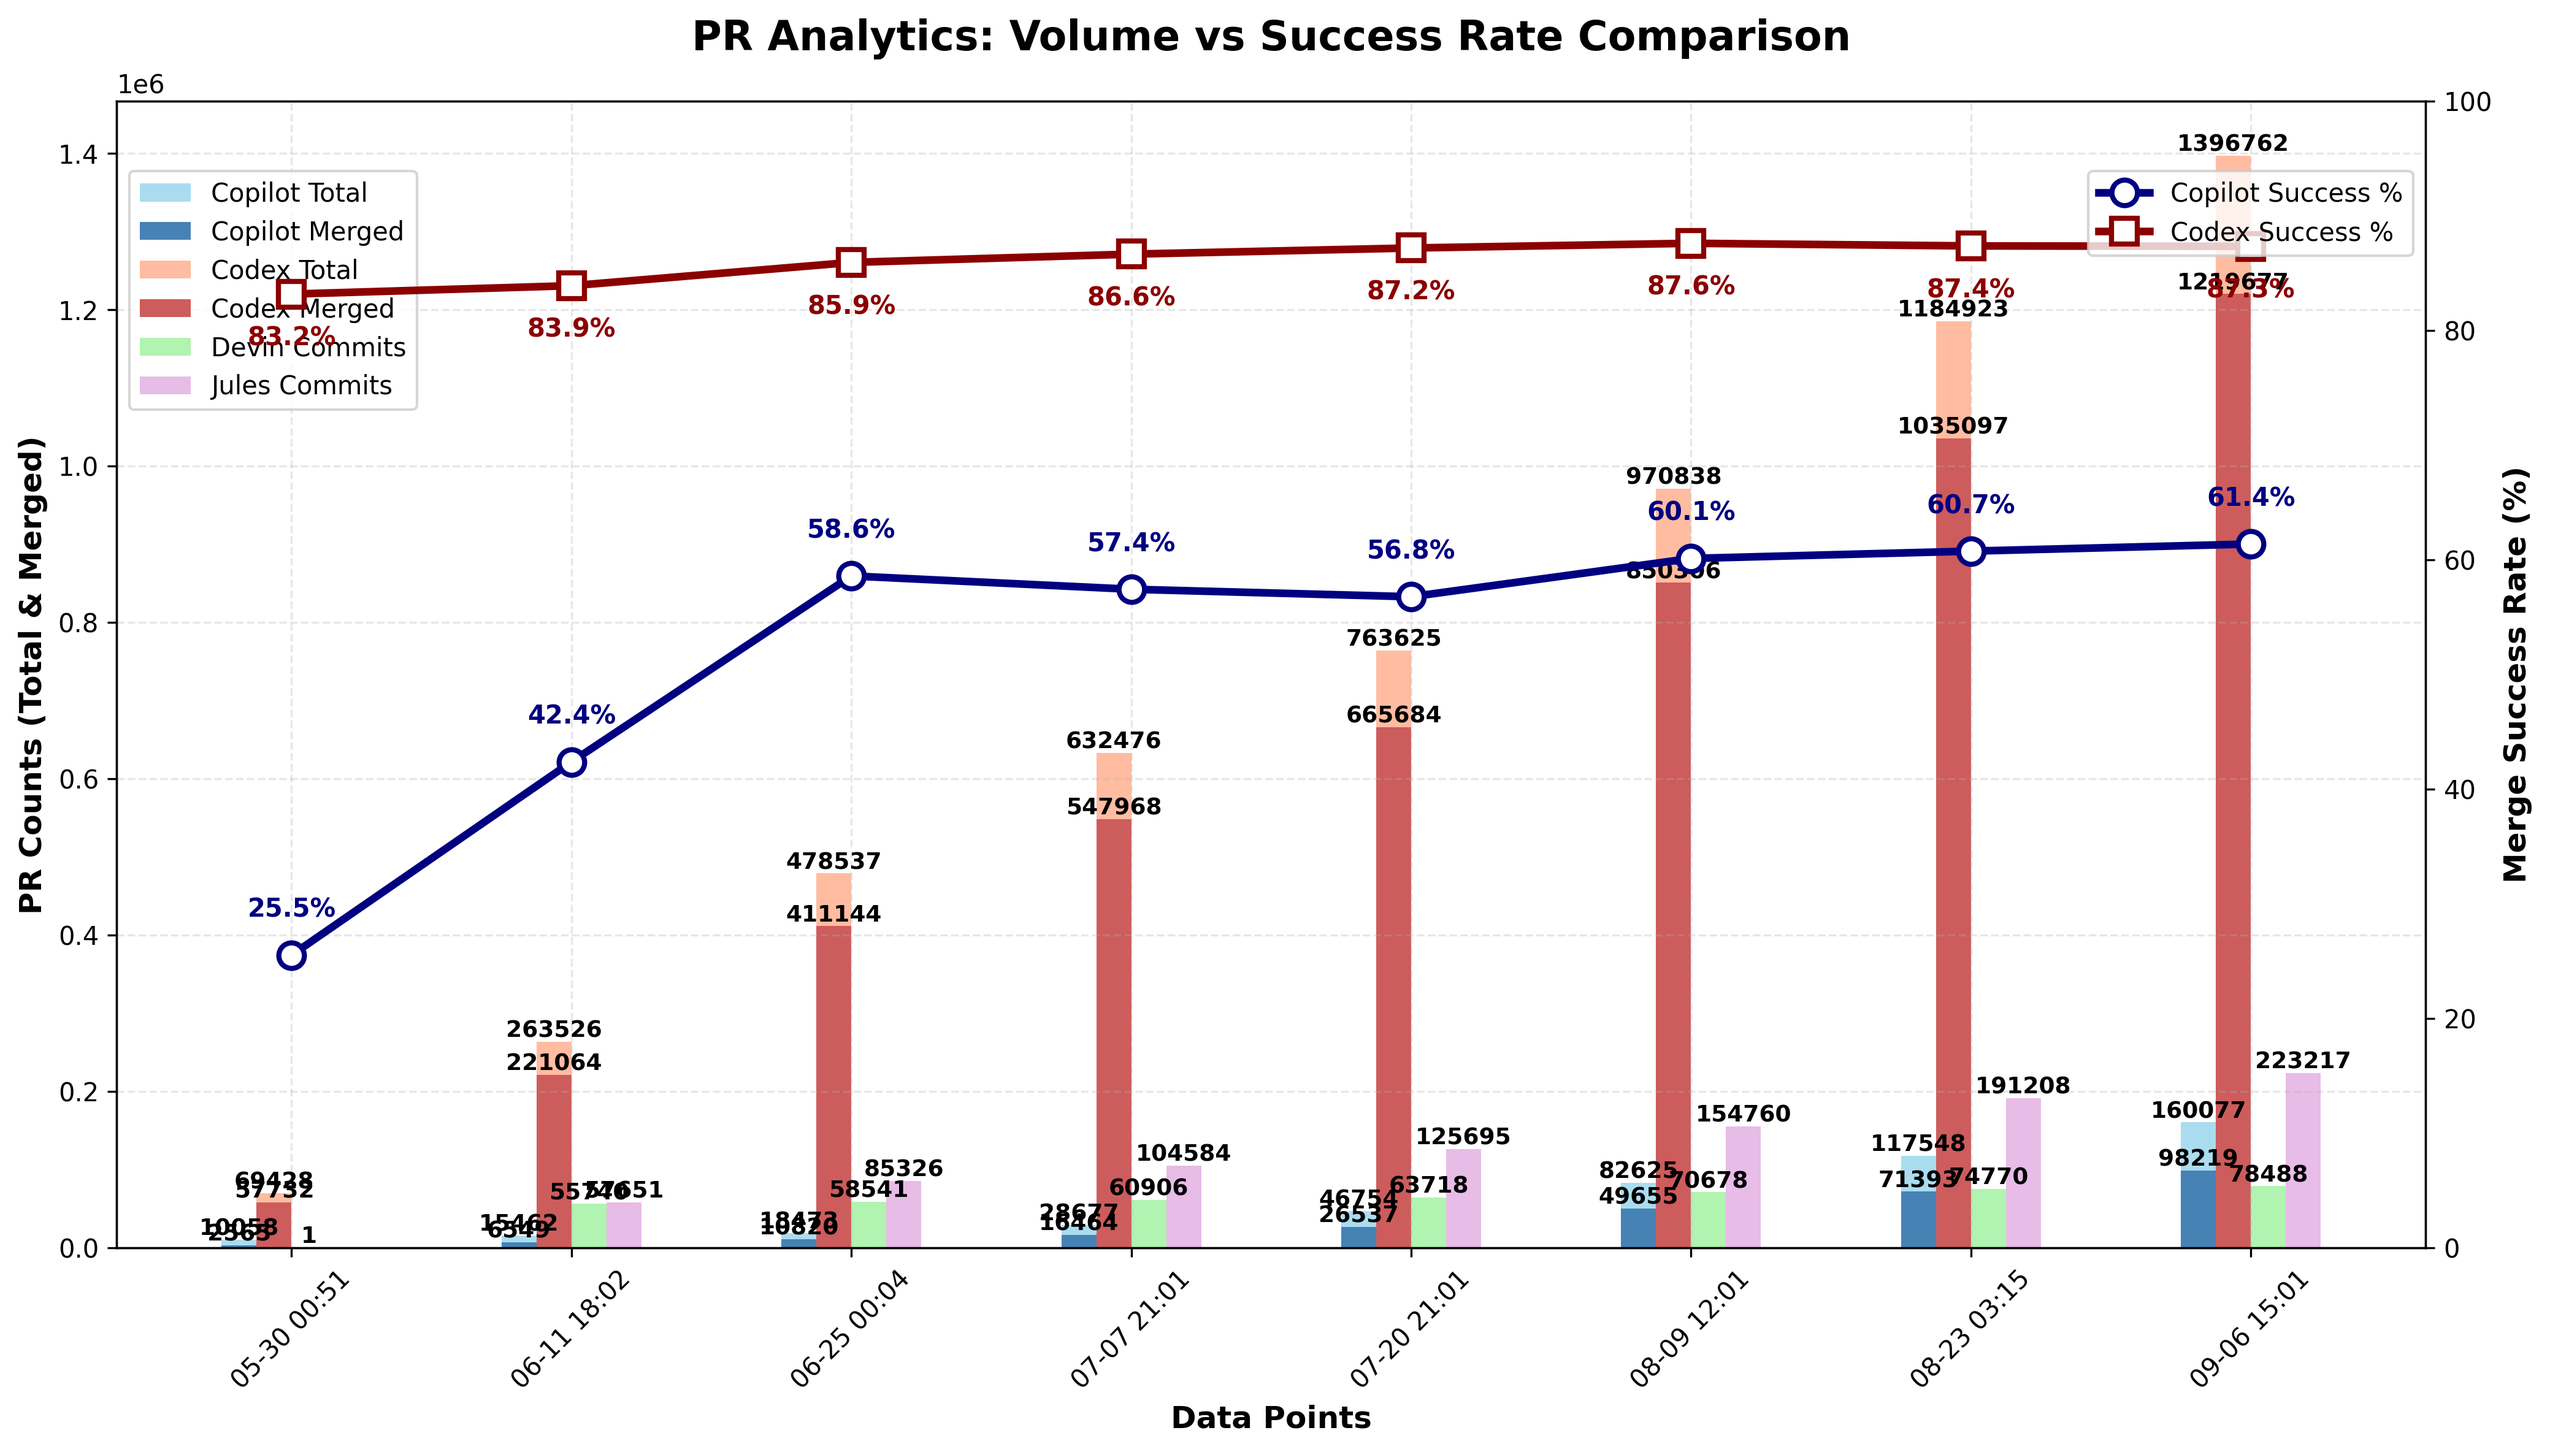
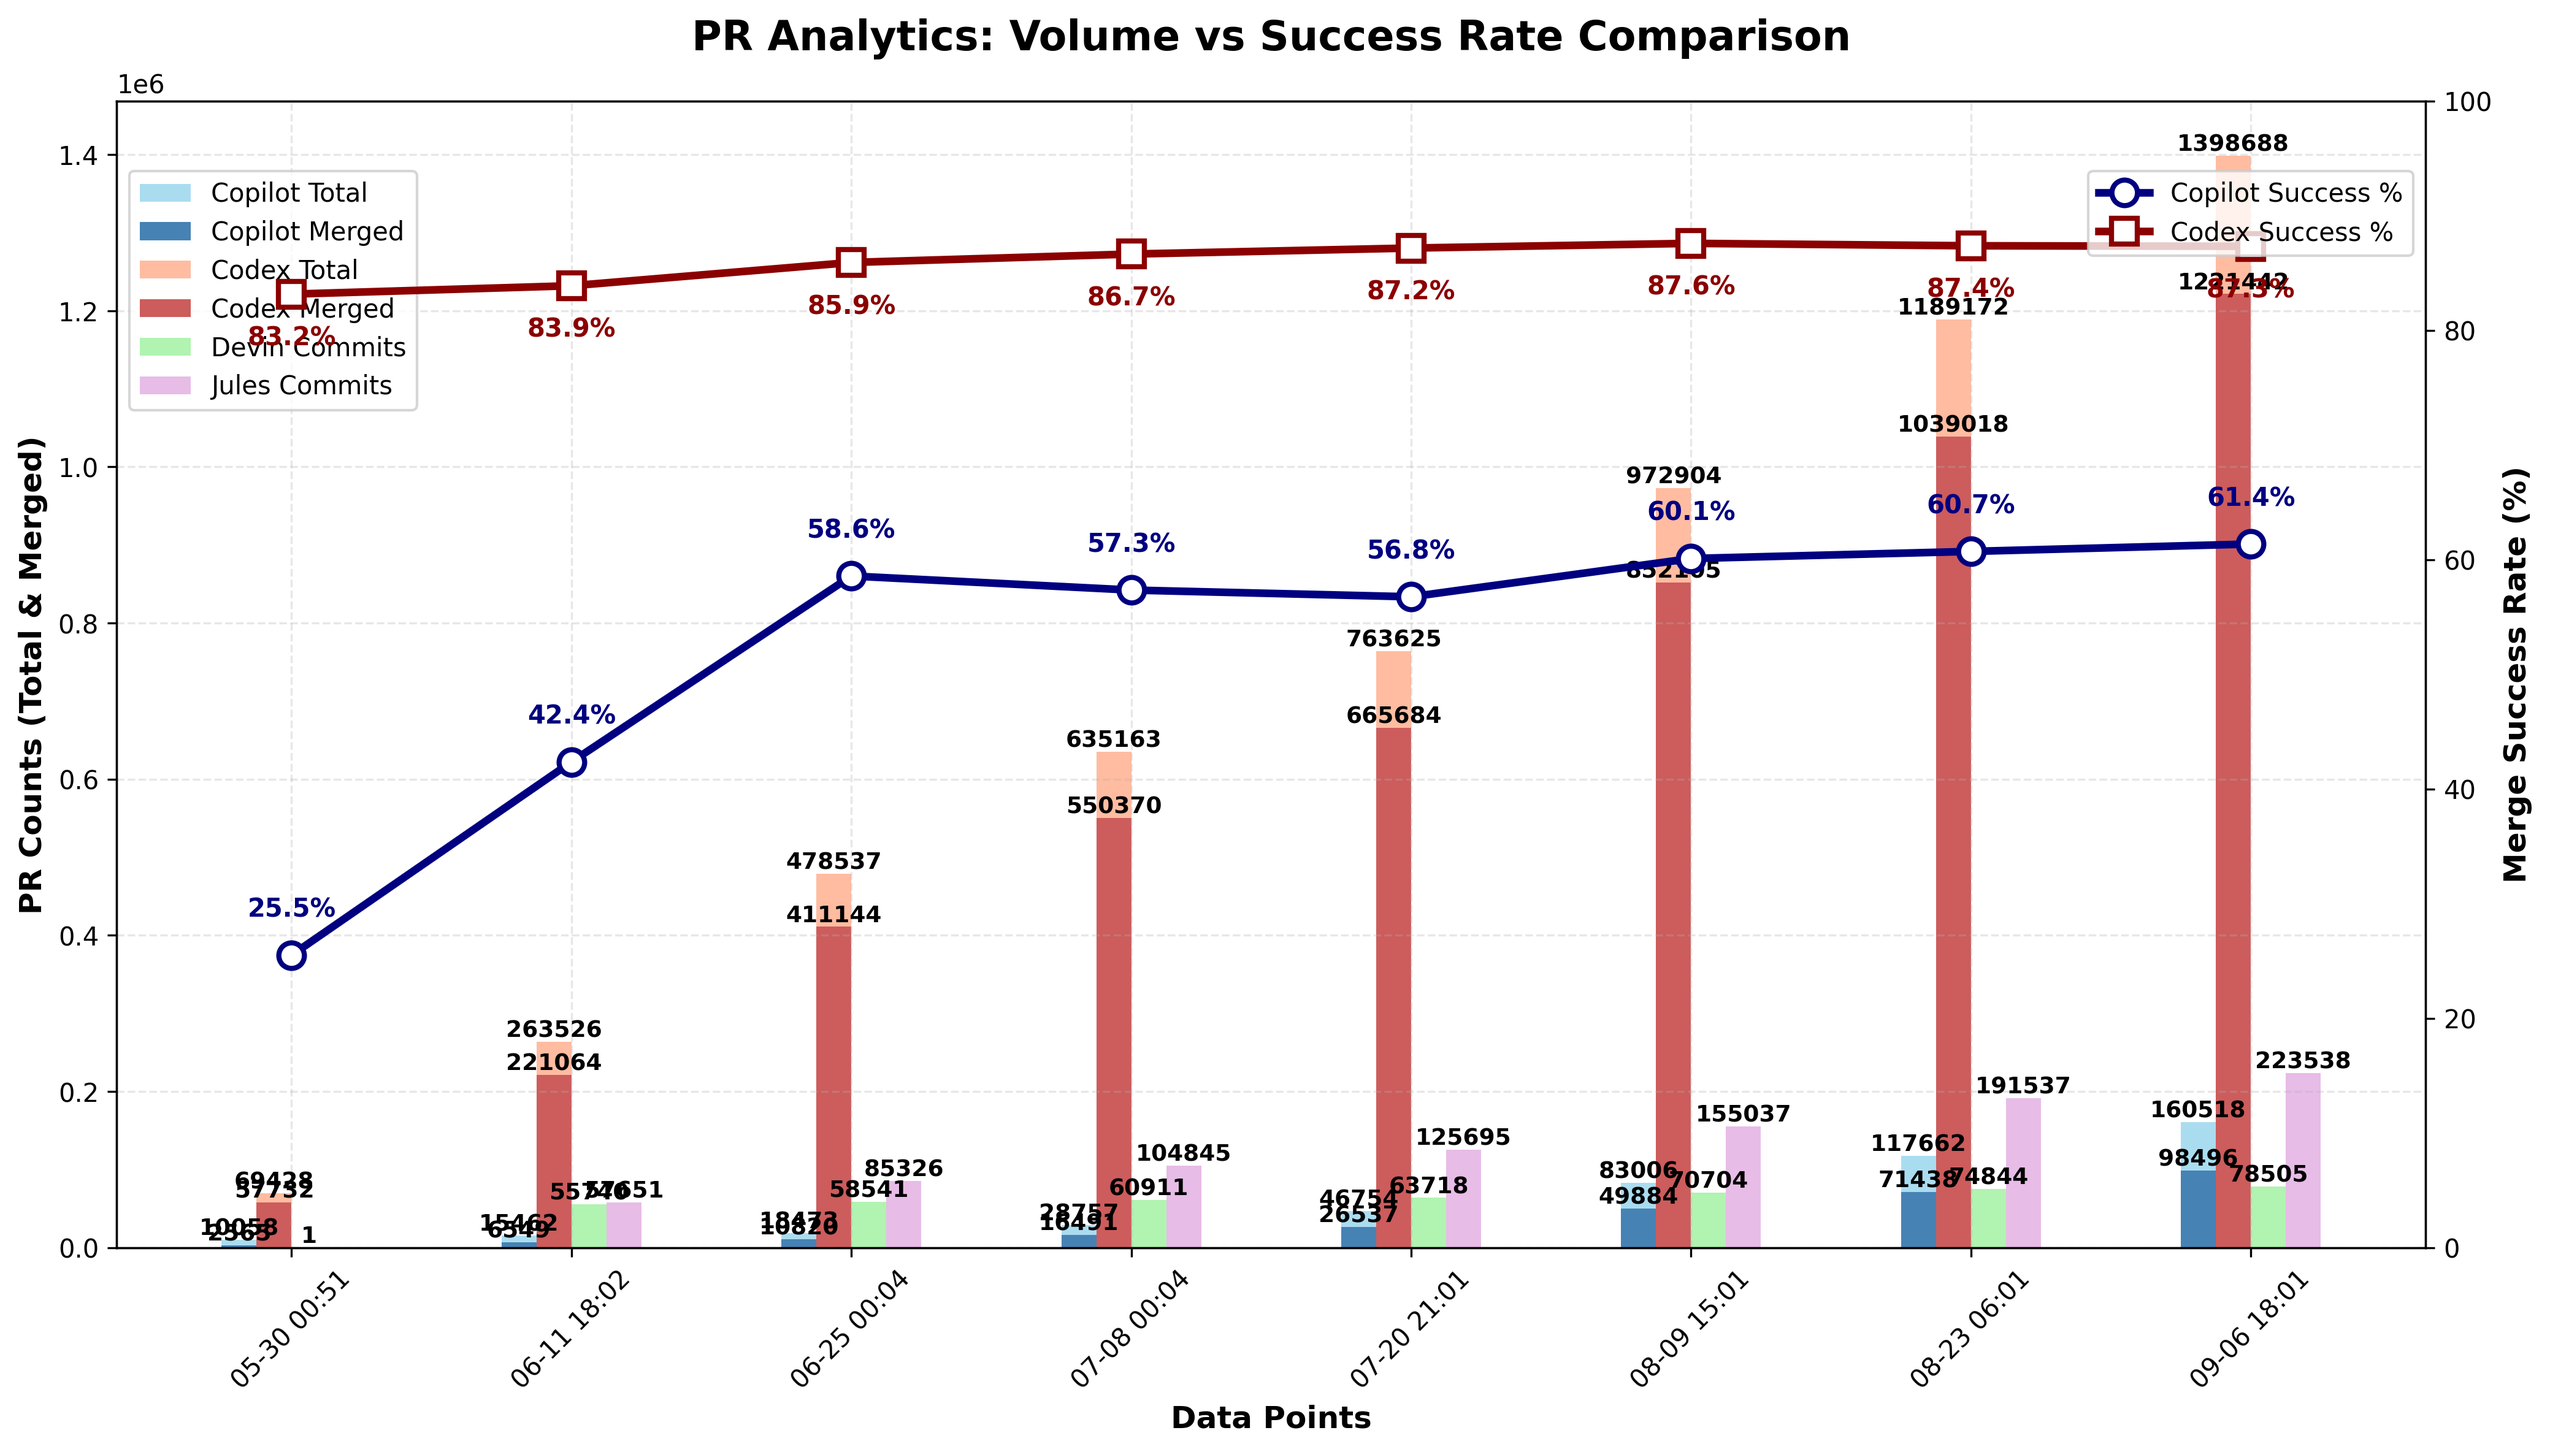
chore: update PR‑approval chart

diff --git a/docs/index.html b/docs/index.html
@@ -773,6 +773,7 @@
                         <td>N/A</td>
                         <td>N/A</td>
                         <td>N/A</td>
+                        <td>N/A</td>
                     </tr>
                     <tr>
                         <td>Codex</td>
@@ -1504,27 +1505,28 @@
                         <td>N/A</td>
                         <td>N/A</td>
                         <td>N/A</td>
+                        <td>N/A</td>
                     </tr>
                 <tr>
                         <td>Devin</td>
                         <td>N/A</td>
                         <td>N/A</td>
                         <td>N/A</td>
-                        <td>78,488</td>
+                        <td>78,505</td>
                     </tr>
                     <tr>
                         <td>Jules</td>
                         <td>N/A</td>
                         <td>N/A</td>
                         <td>N/A</td>
-                        <td>223,217</td>
+                        <td>223,538</td>
                     </tr>
                     </tbody>
             </table>
         </section>
 
         <footer>
-            <p>Last updated: <span id="last-updated">September 06, 2025 15:01 UTC</span></p>
+            <p>Last updated: <span id="last-updated">September 06, 2025 18:01 UTC</span></p>
             <p><a href="https://github.com/aavetis/ai-pr-watcher">View on GitHub</a></p>
         </footer>
     </div>

diff --git a/README.md b/README.md
@@ -19,7 +19,7 @@ Explore the GitHub search queries used:
 
 | Service | Total PRs | Merged PRs | Merge Rate | Total Commits |
 | ------- | --------- | ---------- | ---------- | ------------- |
-| Copilot | 160,077 | 98,219 | 61.36% | N/A           |
-| Codex   | 1,396,762 | 1,219,677 | 87.32% | N/A           |
-| Devin   | N/A       | N/A        | N/A        | 78,488 |
-| Jules   | N/A       | N/A        | N/A        | 223,217 |
+| Copilot | 160,518 | 98,496 | 61.36% | N/A           |
+| Codex   | 1,398,688 | 1,221,442 | 87.33% | N/A           |
+| Devin   | N/A       | N/A        | N/A        | 78,505 |
+| Jules   | N/A       | N/A        | N/A        | 223,538 |
